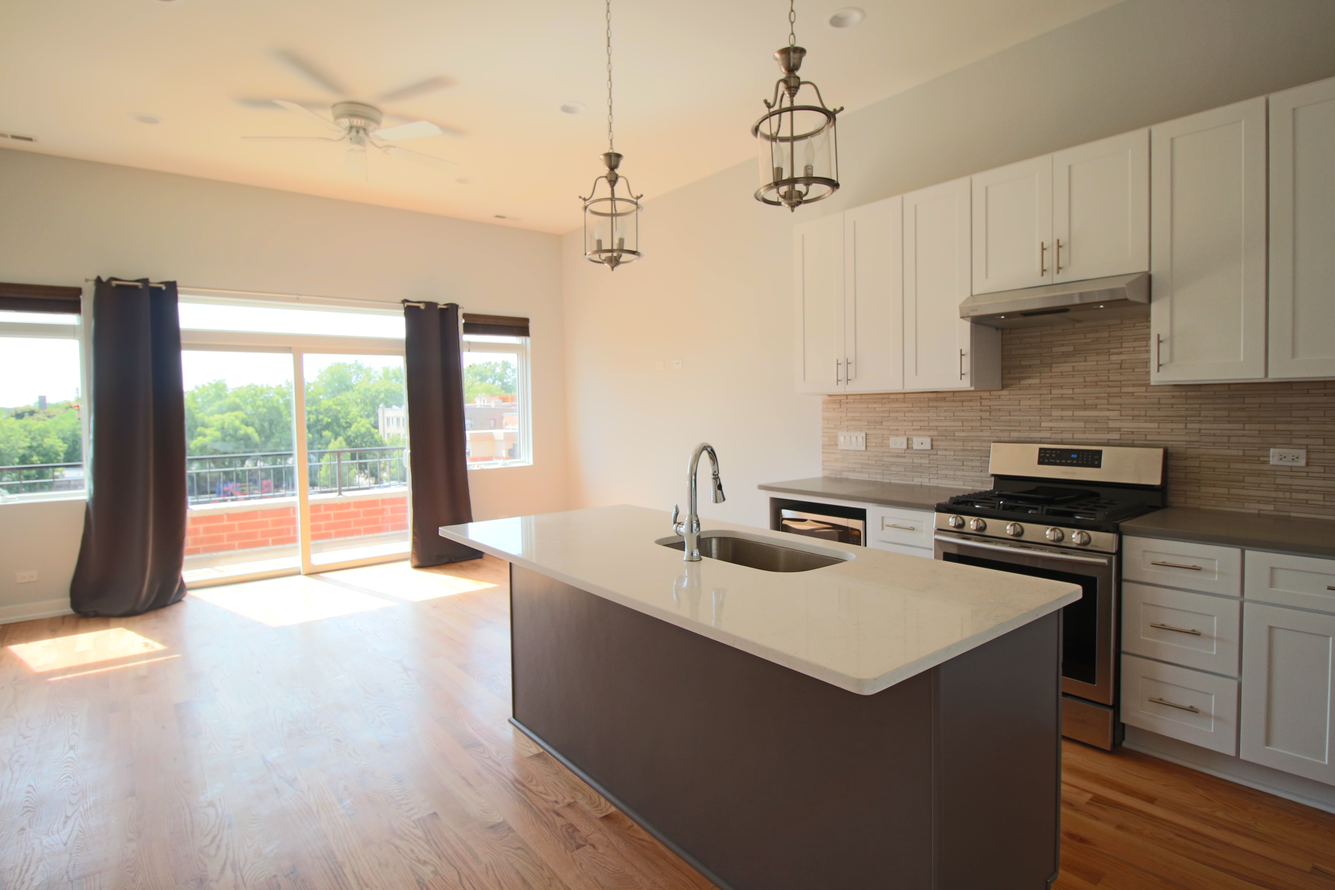
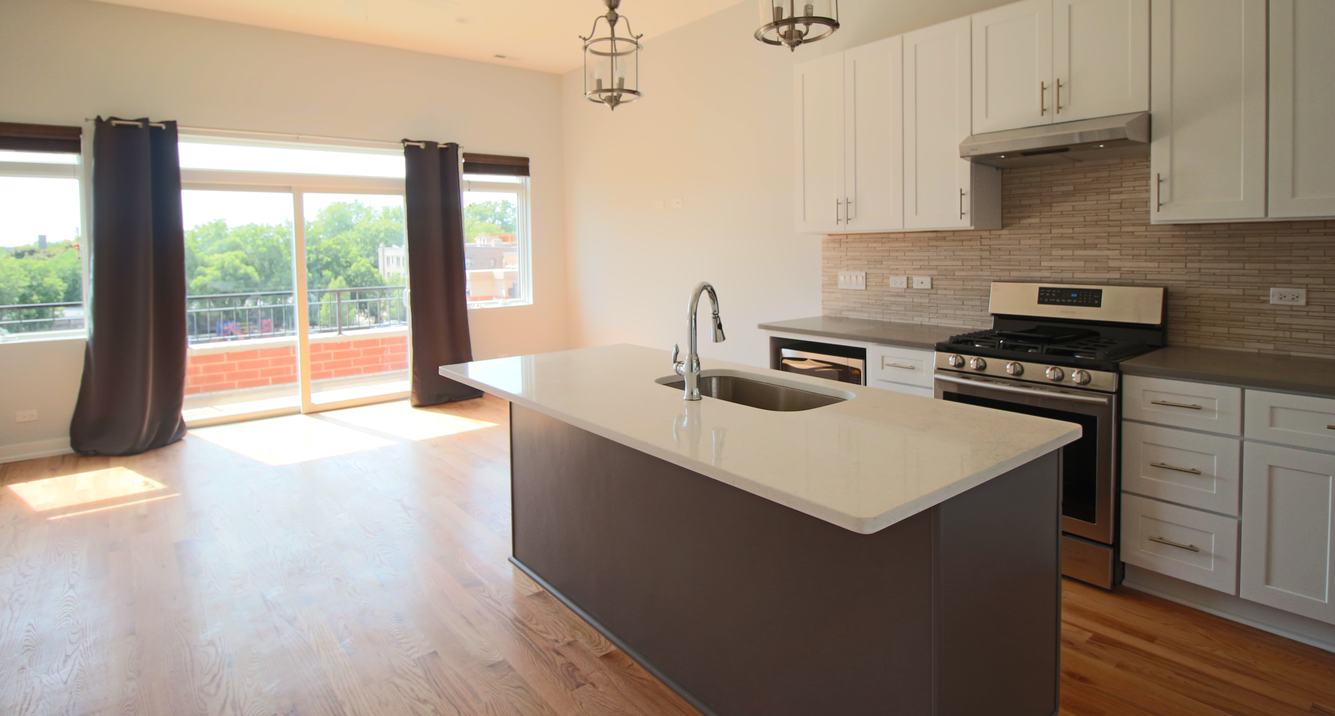
<Carousel />

diff --git a/src/components/Carousel/Carousel.js b/src/components/Carousel/Carousel.js
@@ -8,10 +8,12 @@
  */
 
 import React from 'react';
+import withStyles from 'isomorphic-style-loader/lib/withStyles';
 import { Carousel } from 'react-bootstrap';
 
 import imgKey1 from './keys1.jpg';
-import apartment from './apartment2.jpg';
+import apartment from './apartment.jpg';
+import s from './Carousel.css';
 
  /**
   TODO:
@@ -43,10 +45,14 @@ class CarouselClass extends React.Component {
         activeIndex={this.state.index}
         direction={this.state.direction}
         onSelect={(selectedIndex, e) => this.handleSelect(selectedIndex, e)}
+        indicators={null} nextLabel={null}
       >
         <Carousel.Item>
           <img width={900} height={500} alt="900x500" src={apartment} />
-          <Carousel.Caption />
+          <Carousel.Caption>
+            <h3>Second slide label</h3>
+            <p>Lorem ipsum dolor sit amet, consectetur adipiscing elit.</p>
+          </Carousel.Caption>
         </Carousel.Item>
         <Carousel.Item>
           <img width={900} height={500} alt="900x500" src={imgKey1} />
@@ -67,4 +73,4 @@ class CarouselClass extends React.Component {
   }
 }
 
-export default CarouselClass;
+export default withStyles(s)(CarouselClass);

diff --git a/src/components/Carousel/Carousel.css b/src/components/Carousel/Carousel.css
@@ -1,0 +1,1 @@
+@import '../variables.css';
